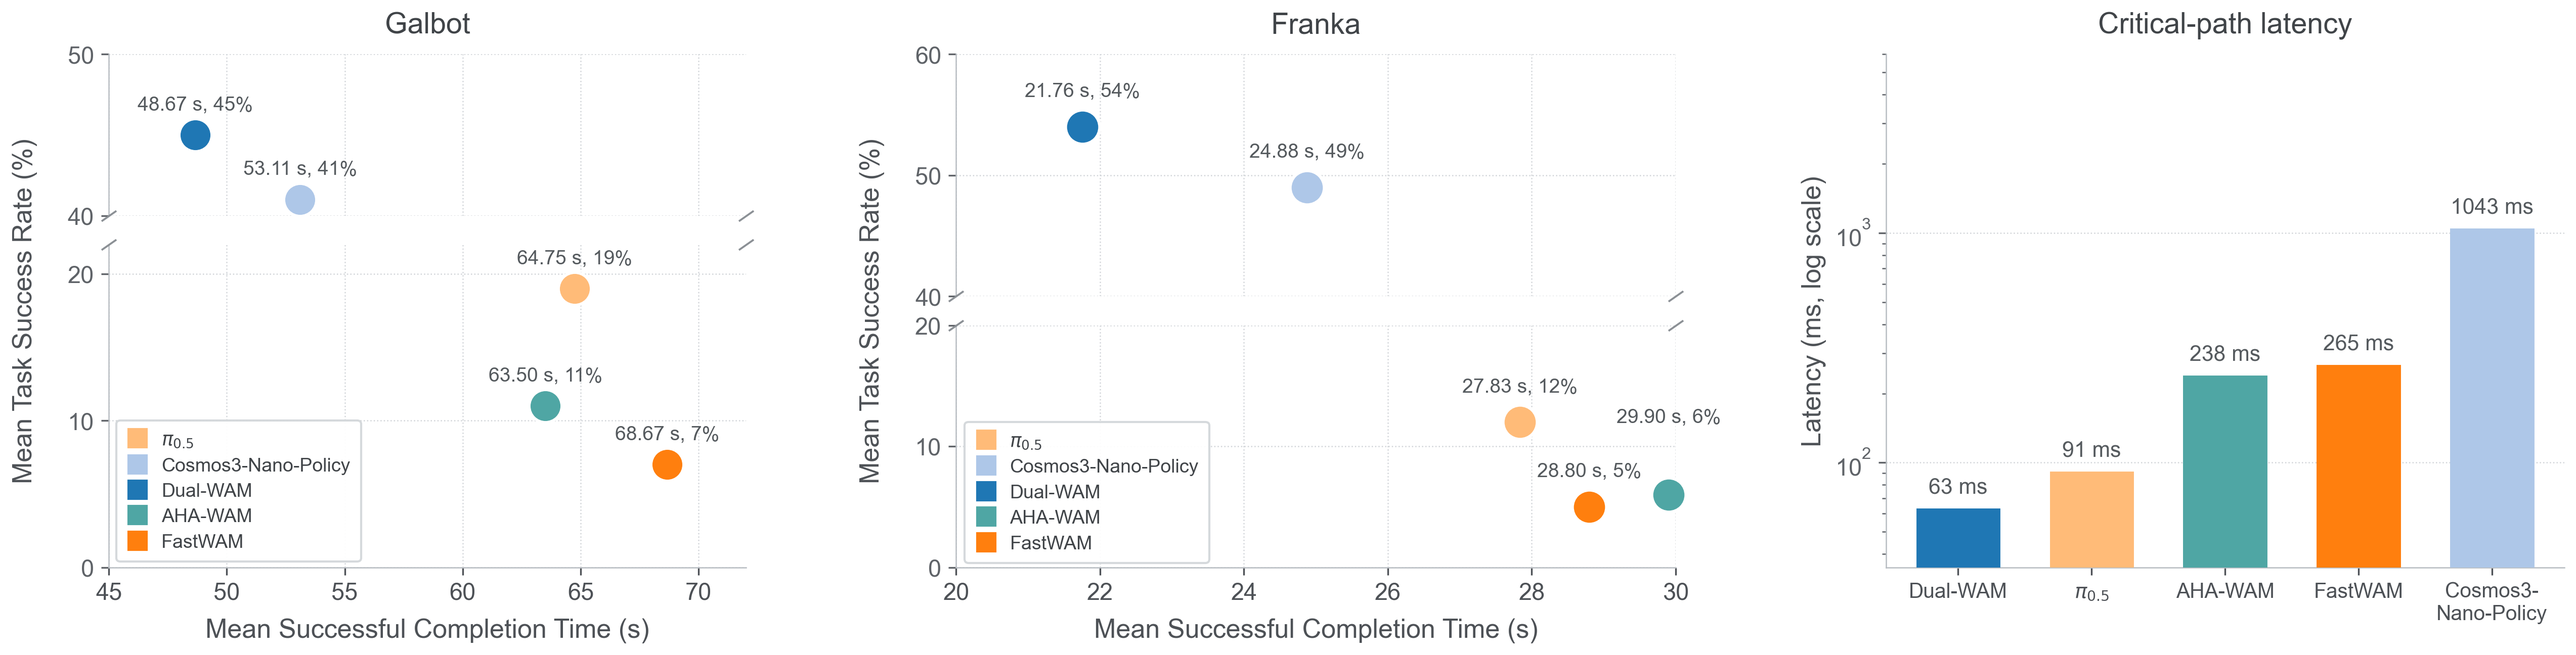
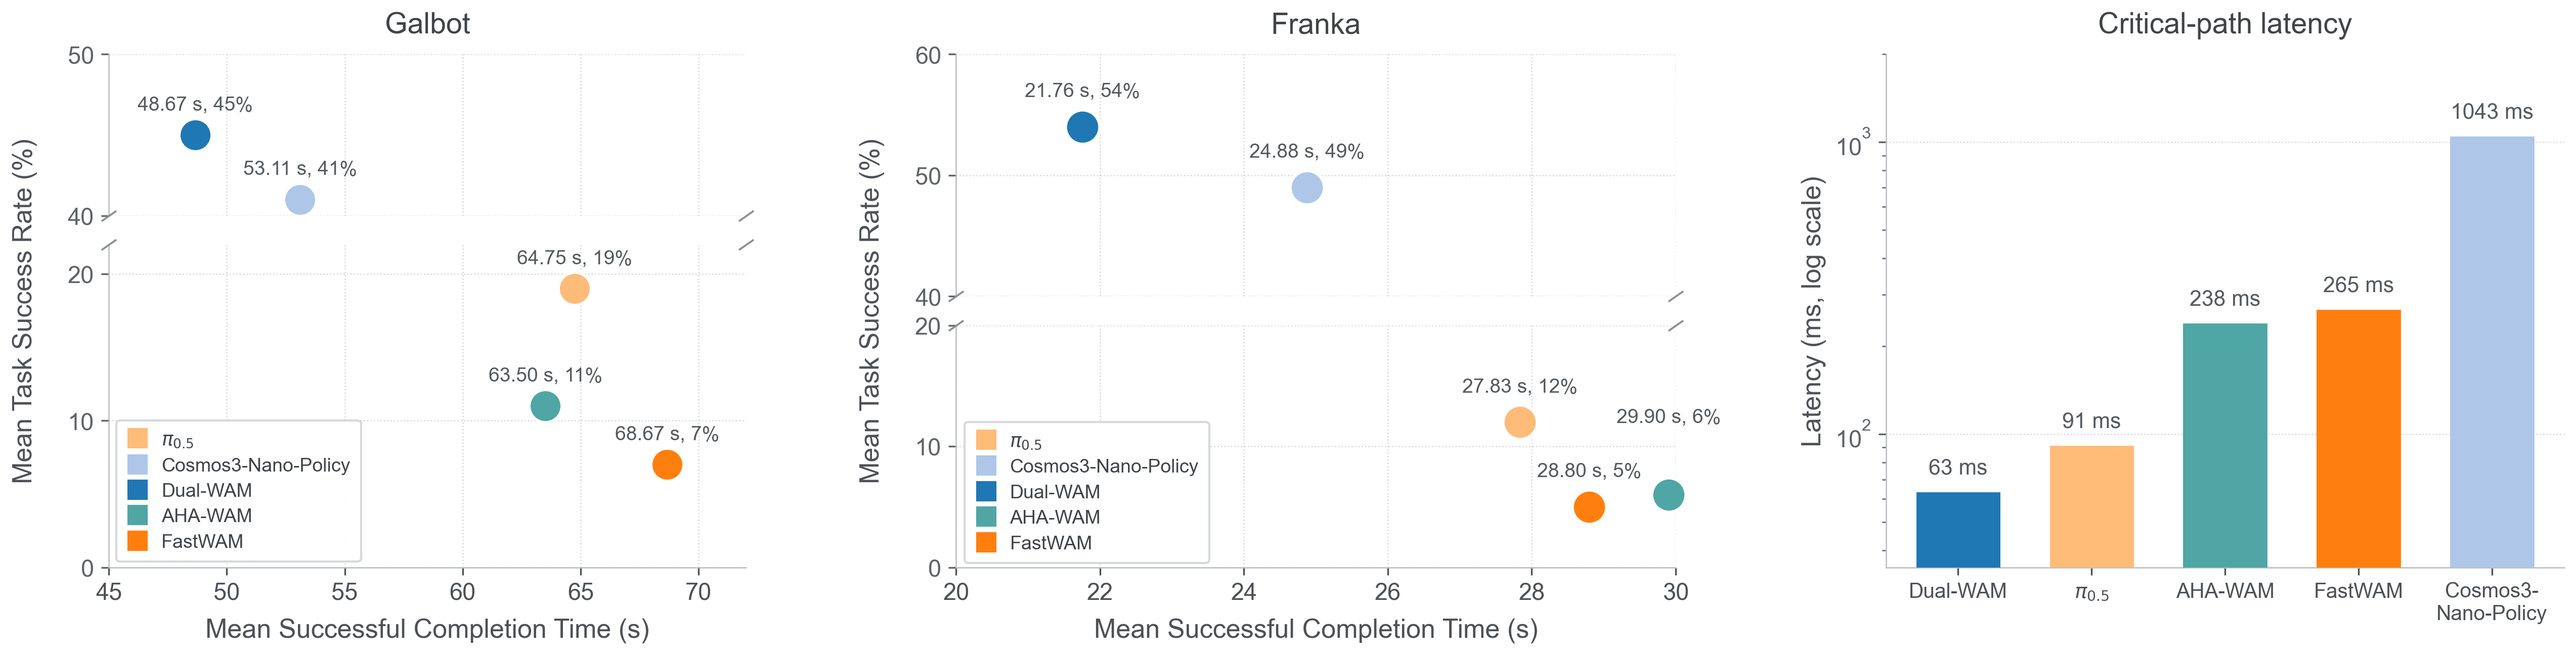
feat: update caption

diff --git a/index.html b/index.html
@@ -362,7 +362,7 @@
         <figure class="figure-card results-card reveal">
           <div class="figure-label"><span>Performance overview</span><small>Success rate · completion time · latency</small></div>
           <img src="./media/fig/main_results.png" alt="Zero-shot real-robot success rate, completion time, and critical-path latency results" width="5093" height="1296" loading="lazy">
-          <figcaption><strong>Zero-shot real-robot performance and critical-path latency.</strong> DualWAM displays strong generalization ability in real-world zero-shot tasks, achieving a relatively high success rate with significantly lower latency than all baseline families. Right: Critical-path latency on a logarithmic scale. DualWAM runs on three NVIDIA GeForce RTX 4090 GPUs, whereas each baseline method runs on a single RTX 4090 GPU.</figcaption>
+          <figcaption><strong>Zero-shot real-robot performance and critical-path latency.</strong> DualWAM displays strong generalization ability in real-world zero-shot tasks, achieving a relatively high success rate with significantly lower latency than all baseline families. Right: Critical-path latency on a logarithmic scale.  Cosmos3-Nano-Policy uses the same applicable system optimizations, such as multi-GPU classifier-free guidance and quantization; other baselines use their official inference scripts and default sampling configurations.</figcaption>
         </figure>
 
         <div class="performance-demo reveal">
